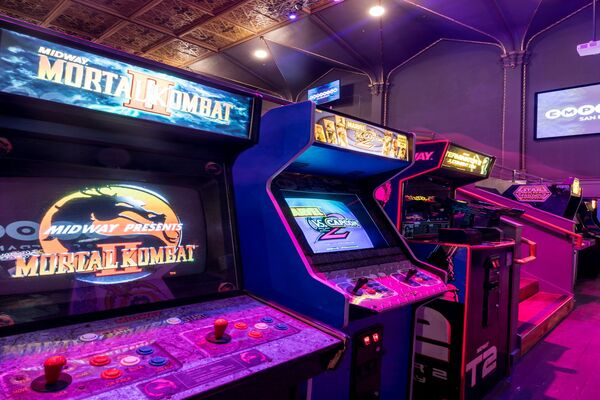
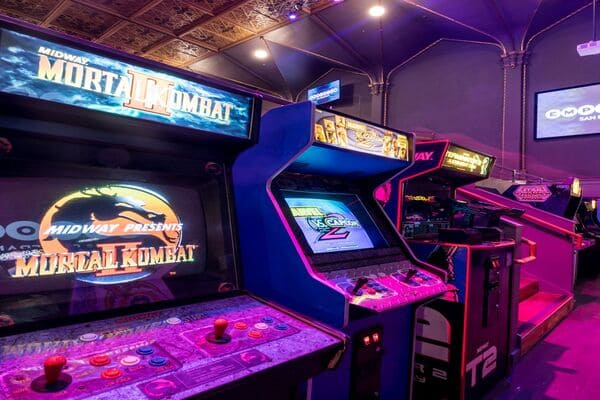
Imagenes comprimidas + avance saas

diff --git a/rutas/arcades.html b/rutas/arcades.html
@@ -26,7 +26,7 @@
     <!-- Header Bootstrap-->
     <header class="header container-fluid sticky-top">
         <nav class="header__navbar sticky-top navbar-expand-lg navbar-light">
-            <img src="./assets/img/logo-tres17.png" alt="Logo de Tres17Studio" class="header__navbar--logo">
+            <img src="../assets/img/logo-tres17.png" alt="Logo de Tres17Studio" class="header__navbar--logo">
             <button class="navbar-toggler" type="button" data-toggle="collapse" data-target="#navbar" 
             aria-controls="navbar" aria-expanded="false" aria-label="Menu">
                 <span class="navbar-toggler-icon"></span>
@@ -34,10 +34,10 @@
             <div class="collapse navbar-collapse" id="navbar">
                 <ul class="navbar-nav mr-auto">
                     <li class="nav-item"><a href="../index.html">Inicio</a></li>
-                    <li class="nav-item active"><a href="./rutas/nosotros.html">Nosotros</a></li>
-                    <li class="nav-item"><a href="./rutas/locales.html">Locales</a></li>
-                    <li class="nav-item"><a href="./rutas/arcades.html">Arcades</a></li>
-                    <li class="nav-item"><a href="./rutas/contacto.html">Contacto</a></li>
+                    <li class="nav-item active"><a href="nosotros.html">Nosotros</a></li>
+                    <li class="nav-item"><a href="locales.html">Locales</a></li>
+                    <li class="nav-item"><a href="arcades.html">Arcades</a></li>
+                    <li class="nav-item"><a href="contacto.html">Contacto</a></li>
                 </ul>
                 <form action="" class="form-inline my-2 my-lg-0">
                     <input type="text" class="form-control mr-sm-2" placeholder="Buscar" aria-label="Buscar">

diff --git a/rutas/contacto.html b/rutas/contacto.html
@@ -27,7 +27,7 @@
     <!-- Header Bootstrap-->
     <header class="header container-fluid sticky-top">
         <nav class="header__navbar sticky-top navbar-expand-lg navbar-light">
-            <img src="./assets/img/logo-tres17.png" alt="Logo de Tres17Studio" class="header__navbar--logo">
+            <img src="../assets/img/logo-tres17.png" alt="Logo de Tres17Studio" class="header__navbar--logo">
             <button class="navbar-toggler" type="button" data-toggle="collapse" data-target="#navbar" 
             aria-controls="navbar" aria-expanded="false" aria-label="Menu">
                 <span class="navbar-toggler-icon"></span>
@@ -35,10 +35,10 @@
             <div class="collapse navbar-collapse" id="navbar">
                 <ul class="navbar-nav mr-auto">
                     <li class="nav-item"><a href="../index.html">Inicio</a></li>
-                    <li class="nav-item active"><a href="./rutas/nosotros.html">Nosotros</a></li>
-                    <li class="nav-item"><a href="./rutas/locales.html">Locales</a></li>
-                    <li class="nav-item"><a href="./rutas/arcades.html">Arcades</a></li>
-                    <li class="nav-item"><a href="./rutas/contacto.html">Contacto</a></li>
+                    <li class="nav-item active"><a href="nosotros.html">Nosotros</a></li>
+                    <li class="nav-item"><a href="locales.html">Locales</a></li>
+                    <li class="nav-item"><a href="arcades.html">Arcades</a></li>
+                    <li class="nav-item"><a href="contacto.html">Contacto</a></li>
                 </ul>
                 <form action="" class="form-inline my-2 my-lg-0">
                     <input type="text" class="form-control mr-sm-2" placeholder="Buscar" aria-label="Buscar">

diff --git a/rutas/locales.html b/rutas/locales.html
@@ -26,7 +26,7 @@
     <!-- Header Bootstrap-->
     <header class="header container-fluid sticky-top">
         <nav class="header__navbar sticky-top navbar-expand-lg navbar-light">
-            <img src="./assets/img/logo-tres17.png" alt="Logo de Tres17Studio" class="header__navbar--logo">
+            <img src="../assets/img/logo-tres17.png" alt="Logo de Tres17Studio" class="header__navbar--logo">
             <button class="navbar-toggler" type="button" data-toggle="collapse" data-target="#navbar" 
             aria-controls="navbar" aria-expanded="false" aria-label="Menu">
                 <span class="navbar-toggler-icon"></span>
@@ -34,10 +34,10 @@
             <div class="collapse navbar-collapse" id="navbar">
                 <ul class="navbar-nav mr-auto">
                     <li class="nav-item"><a href="../index.html">Inicio</a></li>
-                    <li class="nav-item active"><a href="./rutas/nosotros.html">Nosotros</a></li>
-                    <li class="nav-item"><a href="./rutas/locales.html">Locales</a></li>
-                    <li class="nav-item"><a href="./rutas/arcades.html">Arcades</a></li>
-                    <li class="nav-item"><a href="./rutas/contacto.html">Contacto</a></li>
+                    <li class="nav-item active"><a href="nosotros.html">Nosotros</a></li>
+                    <li class="nav-item"><a href="locales.html">Locales</a></li>
+                    <li class="nav-item"><a href="arcades.html">Arcades</a></li>
+                    <li class="nav-item"><a href="contacto.html">Contacto</a></li>
                 </ul>
                 <form action="" class="form-inline my-2 my-lg-0">
                     <input type="text" class="form-control mr-sm-2" placeholder="Buscar" aria-label="Buscar">

diff --git a/rutas/nosotros.html b/rutas/nosotros.html
@@ -26,7 +26,7 @@
     <!-- Header Bootstrap-->
     <header class="header container-fluid sticky-top">
         <nav class="header__navbar sticky-top navbar-expand-lg navbar-light">
-            <img src="./assets/img/logo-tres17.png" alt="Logo de Tres17Studio" class="header__navbar--logo">
+            <img src="../assets/img/logo-tres17.png" alt="Logo de Tres17Studio" class="header__navbar--logo">
             <button class="navbar-toggler" type="button" data-toggle="collapse" data-target="#navbar" 
             aria-controls="navbar" aria-expanded="false" aria-label="Menu">
                 <span class="navbar-toggler-icon"></span>
@@ -34,10 +34,10 @@
             <div class="collapse navbar-collapse" id="navbar">
                 <ul class="navbar-nav mr-auto">
                     <li class="nav-item"><a href="../index.html">Inicio</a></li>
-                    <li class="nav-item active"><a href="./rutas/nosotros.html">Nosotros</a></li>
-                    <li class="nav-item"><a href="./rutas/locales.html">Locales</a></li>
-                    <li class="nav-item"><a href="./rutas/arcades.html">Arcades</a></li>
-                    <li class="nav-item"><a href="./rutas/contacto.html">Contacto</a></li>
+                    <li class="nav-item active"><a href="nosotros.html">Nosotros</a></li>
+                    <li class="nav-item"><a href="locales.html">Locales</a></li>
+                    <li class="nav-item"><a href="arcades.html">Arcades</a></li>
+                    <li class="nav-item"><a href="contacto.html">Contacto</a></li>
                 </ul>
                 <form action="" class="form-inline my-2 my-lg-0">
                     <input type="text" class="form-control mr-sm-2" placeholder="Buscar" aria-label="Buscar">

diff --git a/css/style.css b/css/style.css
@@ -26,7 +26,7 @@ html {
       margin-left: 1rem;
       animation: animacion 10s linear infinite; }
     .header__navbar a {
-      color: white;
+      color: whitesmoke;
       padding: 10px;
       font-size: 2rem; }
       .header__navbar a :hover {
@@ -89,7 +89,7 @@ html {
   color: aliceblue; }
 
 /*Main - nosotros - fin*/
-/*Main - arcade - inicio*/
+/*Main - locales - inicio*/
 .local--container {
   grid-area: container;
   display: flex;
@@ -143,7 +143,6 @@ html {
   color: aliceblue; }
 
 /*Main - arcade - inicio*/
-/*Main - locales - inicio*/
 .arcade--container {
   grid-area: container;
   display: flex;
@@ -189,7 +188,6 @@ html {
   font-size: 1.2rem;
   font-weight: bold; }
 
-/*Main - locales - fin*/
 /*Main - formulario - inicio*/
 .form--container {
   display: flex;
